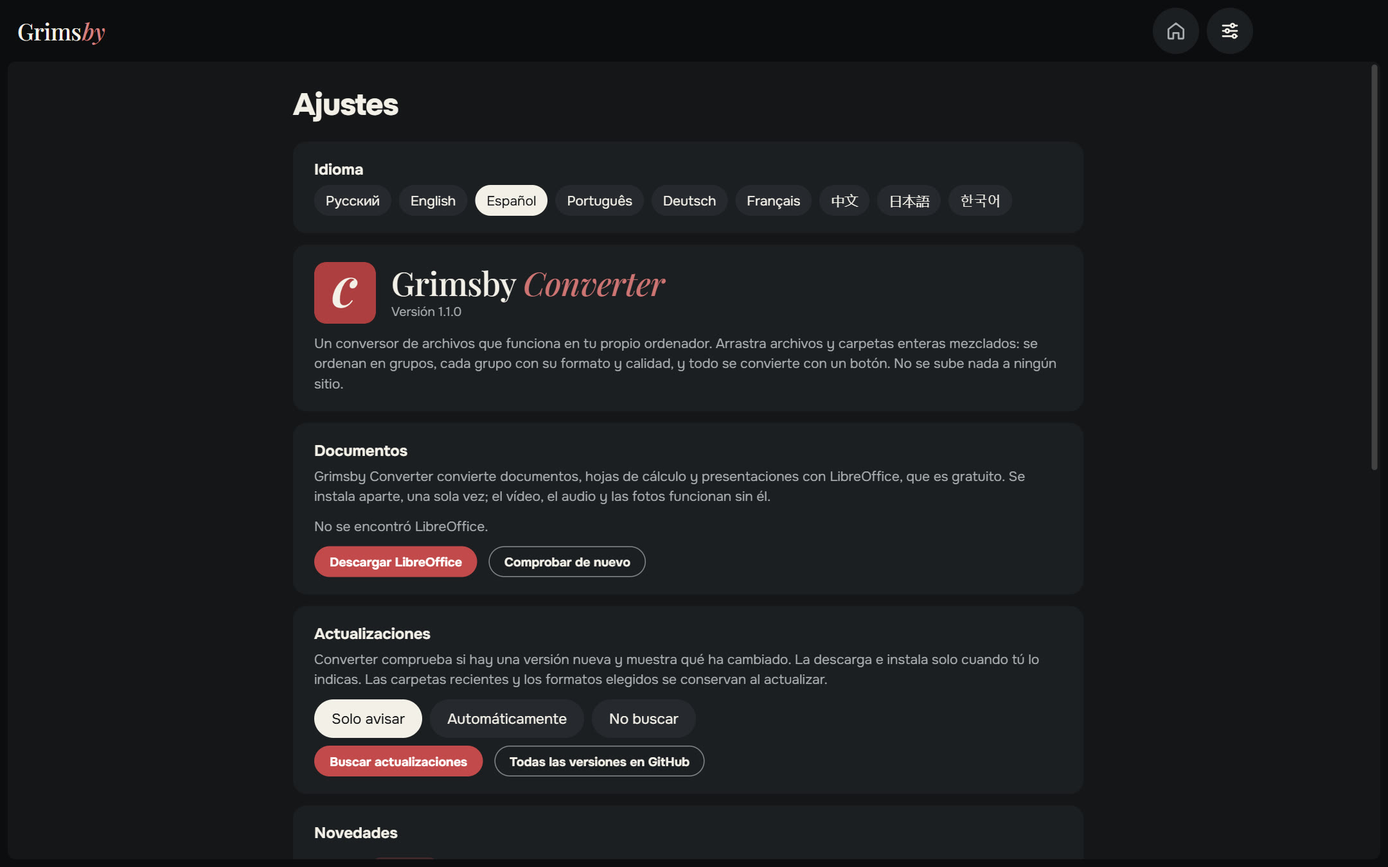
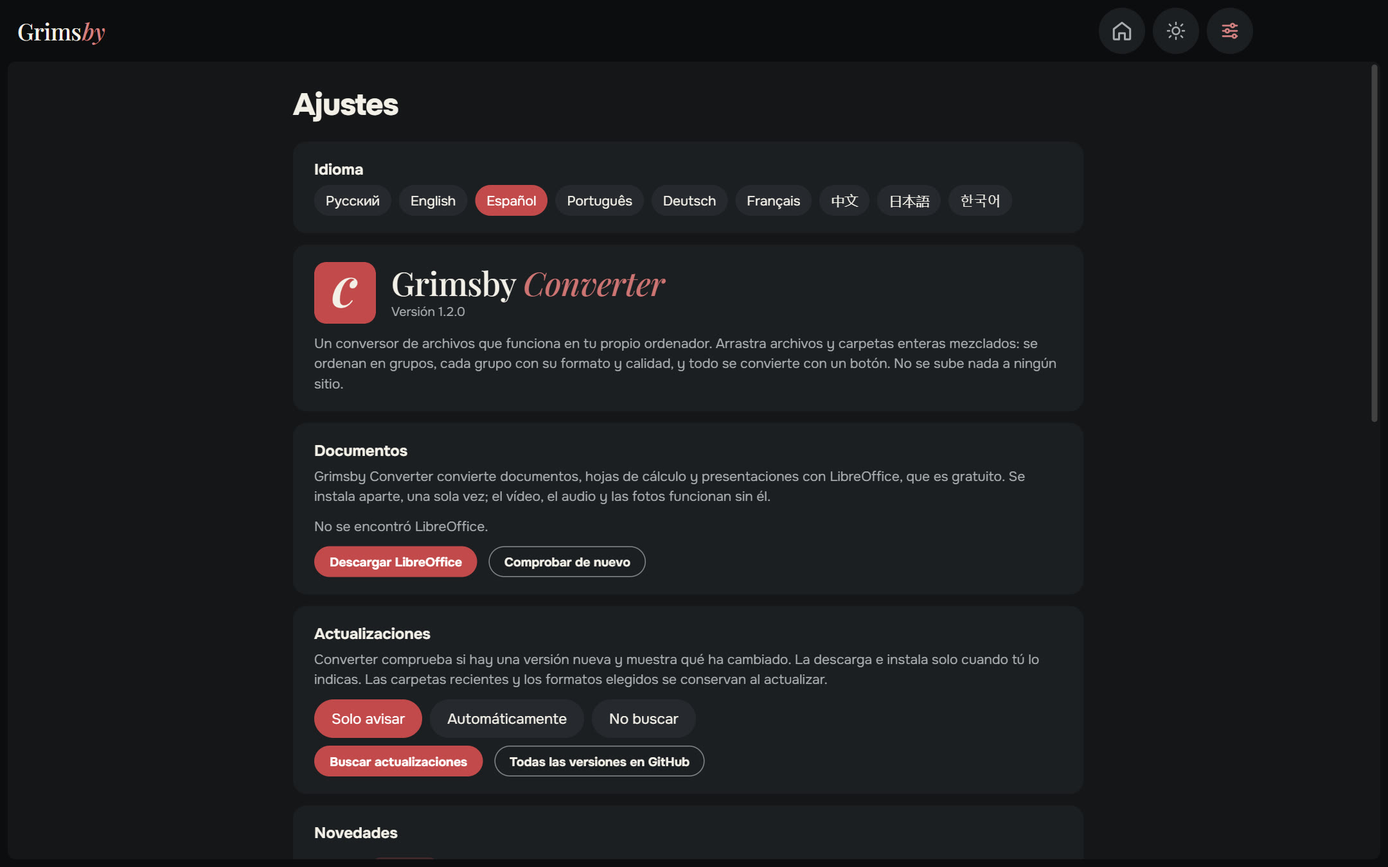
Converter 1.2.0: README and screenshots

diff --git a/README.ru.md b/README.ru.md
@@ -23,7 +23,7 @@
   <a href="https://github.com/maksimkhatskevich/grimsby-converter/releases/latest"><img src="https://img.shields.io/github/v/release/maksimkhatskevich/grimsby-converter?label=%D0%B2%D0%B5%D1%80%D1%81%D0%B8%D1%8F&color=C24A4A" alt="Version"></a>
   <img src="https://img.shields.io/badge/Windows-10%20%7C%2011-C24A4A" alt="Windows 10/11">
   <img src="https://img.shields.io/badge/%D0%B1%D0%B5%D1%81%D0%BF%D0%BB%D0%B0%D1%82%D0%BD%D0%BE-%D0%B1%D0%B5%D0%B7%20%D1%80%D0%B5%D0%BA%D0%BB%D0%B0%D0%BC%D1%8B-111314" alt="Free">
-  <a href="https://www.virustotal.com/gui/file/caeade773641b7b2a15fcc427afa02305a45262004d60aade01427700477fd3b"><img src="https://img.shields.io/badge/VirusTotal-0%2F67-2E7D32" alt="VirusTotal 0/67"></a>
+  <a href="https://www.virustotal.com/gui/file/c7b408d3046f7d0191755085186d9cc0c11226ff40cbc94fcf75808a2c1c976c"><img src="https://img.shields.io/badge/VirusTotal-1%2F60-858A8D" alt="VirusTotal 1/60"></a>
   <a href="https://github.com/maksimkhatskevich/grimsby-converter/releases"><img src="https://img.shields.io/github/downloads/maksimkhatskevich/grimsby-converter/total?label=%D1%81%D0%BA%D0%B0%D1%87%D0%B8%D0%B2%D0%B0%D0%BD%D0%B8%D0%B9&color=858A8D" alt="Downloads"></a>
 </p>
 
@@ -75,6 +75,12 @@
 - **Фото:** HEIC с айфона, PSD из Photoshop, EXR, HDR, AVIF, SVG — всё открывается и сохраняется в привычные форматы, даже в PDF.
 - **Документы, таблицы, презентации** → PDF, DOCX, XLSX, EPUB и другие; открываются и файлы Pages, Numbers и Keynote.
 
+### 🔍 Улучшение фото ×2, ×4, ×6
+
+Фото можно увеличить в 2, 4 или 6 раз с восстановлением деталей — прямо на компьютере, без интернета. Есть режимы для фото и для рисунков. Нужна видеокарта с Vulkan; если её нет или она не справилась, фото увеличится обычным способом, а рядом с файлом появится пометка. Готовый файл получает в имени приставку, например «снимок x4».
+
+![Улучшение фото ×4](screenshots/ru/upscale.jpg)
+
 ### ⚡ Быстро и безопасно
 
 - Несколько файлов конвертируются одновременно — столько, сколько потянет процессор.
@@ -90,11 +96,15 @@
 
 🌍 **9 языков:** русский, английский, испанский, португальский, немецкий, французский, китайский, японский и корейский — переключаются в настройках сразу.
 
+Светлая тема — в один клик, кнопка с солнцем вверху.
+
+![Светлая тема](screenshots/ru/queue-light.jpg)
+
 ![Настройки](screenshots/ru/settings.jpg)
 
 ### 🧩 Программы Grimsby внутри
 
-Grimsby Player и Grimsby Tagger с описанием и скриншотами — скачать и установить можно прямо из программы.
+Grimsby Player, Grimsby Tagger, Grimsby Prompter и Grimsby Helper с описанием и скриншотами — скачать и установить можно прямо из программы.
 
 ![Программы Grimsby и обратная связь](screenshots/ru/apps.jpg)
 
@@ -121,7 +131,6 @@ Grimsby Player и Grimsby Tagger с описанием и скриншотами
 
 1. Откройте страницу **[последней версии](https://github.com/maksimkhatskevich/grimsby-converter/releases/latest)** и скачайте установщик `.exe`.
 2. Запустите его. Windows может показать синее окно «Система Windows защитила ваш компьютер» — это обычное предупреждение для программ без платного сертификата подписи. Нажмите **Подробнее → Выполнить в любом случае**.
-   Установщик проверен на VirusTotal: [ни один из 67 антивирусов ничего не нашёл](https://www.virustotal.com/gui/file/caeade773641b7b2a15fcc427afa02305a45262004d60aade01427700477fd3b) (версия 1.1.0).
 3. Перетащите файлы в окно. Готово.
 
 **Требования:** Windows 10 или 11 (64 бит).
@@ -138,9 +147,11 @@ Grimsby Converter работает **полностью на вашем комп
 
 <table>
   <tr>
-    <td align="center" width="33%"><a href="https://github.com/maksimkhatskevich/grimsby-releases/blob/main/README.ru.md"><img src="screenshots/family/player.png" width="56" alt=""><br><b>Grimsby Player</b></a><br><sub>Офлайн-плеер для скачанной музыки и клипов</sub></td>
-    <td align="center" width="33%"><img src="screenshots/family/converter.png" width="56" alt=""><br><b>Grimsby Converter</b><br><img src="screenshots/family/here-ru.svg" alt="Вы здесь"></td>
-    <td align="center" width="33%"><a href="https://github.com/maksimkhatskevich/grimsby-tagger/blob/main/README.ru.md"><img src="screenshots/family/tagger.png" width="56" alt=""><br><b>Grimsby Tagger</b></a><br><sub>Пакетный редактор тегов: альбомы, обложки, имена файлов</sub></td>
+    <td align="center" width="20%"><a href="https://github.com/maksimkhatskevich/grimsby-releases/blob/main/README.ru.md"><img src="screenshots/family/player.png" width="56" alt=""><br><b>Grimsby Player</b></a><br><sub>Офлайн-плеер для скачанной музыки и клипов</sub></td>
+    <td align="center" width="20%"><img src="screenshots/family/converter.png" width="56" alt=""><br><b>Grimsby Converter</b><br><img src="screenshots/family/here-ru.svg" alt=""></td>
+    <td align="center" width="20%"><a href="https://github.com/maksimkhatskevich/grimsby-tagger/blob/main/README.ru.md"><img src="screenshots/family/tagger.png" width="56" alt=""><br><b>Grimsby Tagger</b></a><br><sub>Пакетный редактор тегов: альбомы, обложки, имена файлов</sub></td>
+    <td align="center" width="20%"><a href="https://github.com/maksimkhatskevich/grimsby-prompter/blob/main/README.ru.md"><img src="screenshots/family/prompter.png" width="56" alt=""><br><b>Grimsby Prompter</b></a><br><sub>Простой телесуфлёр, который следует за голосом</sub></td>
+    <td align="center" width="20%"><a href="https://github.com/maksimkhatskevich/grimsby-helper/blob/main/README.ru.md"><img src="screenshots/family/helper.png" width="56" alt=""><br><b>Grimsby Helper</b></a><br><sub>Состояние ПК с первого взгляда: процессы, температуры, чистка</sub></td>
   </tr>
 </table>
 

diff --git a/README.fr.md b/README.fr.md
@@ -23,7 +23,7 @@
   <a href="https://github.com/maksimkhatskevich/grimsby-converter/releases/latest"><img src="https://img.shields.io/github/v/release/maksimkhatskevich/grimsby-converter?label=version&color=C24A4A" alt="Version"></a>
   <img src="https://img.shields.io/badge/Windows-10%20%7C%2011-C24A4A" alt="Windows 10/11">
   <img src="https://img.shields.io/badge/gratuit-sans%20pub-111314" alt="Free">
-  <a href="https://www.virustotal.com/gui/file/caeade773641b7b2a15fcc427afa02305a45262004d60aade01427700477fd3b"><img src="https://img.shields.io/badge/VirusTotal-0%2F67-2E7D32" alt="VirusTotal 0/67"></a>
+  <a href="https://www.virustotal.com/gui/file/c7b408d3046f7d0191755085186d9cc0c11226ff40cbc94fcf75808a2c1c976c"><img src="https://img.shields.io/badge/VirusTotal-1%2F60-858A8D" alt="VirusTotal 1/60"></a>
   <a href="https://github.com/maksimkhatskevich/grimsby-converter/releases"><img src="https://img.shields.io/github/downloads/maksimkhatskevich/grimsby-converter/total?label=t%C3%A9l%C3%A9chargements&color=858A8D" alt="Downloads"></a>
 </p>
 
@@ -75,6 +75,12 @@ Choisissez le format et la qualité par groupe : par exemple, la vidéo en MP4, 
 - **Photos :** HEIC de l’iPhone, PSD de Photoshop, EXR, HDR, AVIF, SVG — tout s’ouvre et s’enregistre dans les formats courants, même en PDF.
 - **Documents, tableurs, présentations** → PDF, DOCX, XLSX, EPUB et plus ; les fichiers Pages, Numbers et Keynote s’ouvrent aussi.
 
+### 🔍 Amélioration des photos ×2, ×4, ×6
+
+Agrandissez les photos 2, 4 ou 6 fois en restaurant les détails — directement sur votre ordinateur, sans internet. Il y a des modes pour les photos et pour les dessins. Il faut une carte graphique compatible Vulkan ; sans elle, ou si elle n’y arrive pas, la photo est agrandie de façon classique et une mention apparaît à côté du fichier. Le nouveau fichier reçoit un préfixe dans son nom, comme « photo x4 ».
+
+![Amélioration des photos ×4](screenshots/fr/upscale.jpg)
+
 ### ⚡ Rapide et sûr
 
 - Plusieurs fichiers à la fois — autant que votre processeur le permet.
@@ -90,11 +96,15 @@ Langue, documents, mises à jour (prévenir seulement, automatiquement ou ne pas
 
 🌍 **9 langues :** anglais, russe, espagnol, portugais, allemand, français, chinois, japonais et coréen — à changer dans les Réglages, effet immédiat.
 
+Le thème clair est à un clic — le bouton soleil en haut.
+
+![Thème clair](screenshots/fr/queue-light.jpg)
+
 ![Réglages](screenshots/fr/settings.jpg)
 
 ### 🧩 Les applis Grimsby intégrées
 
-Grimsby Player et Grimsby Tagger avec description et captures — à télécharger et installer directement depuis l’appli.
+Grimsby Player, Grimsby Tagger, Grimsby Prompter et Grimsby Helper avec description et captures — à télécharger et installer directement depuis l’appli.
 
 ![Les applis Grimsby et contact](screenshots/fr/apps.jpg)
 
@@ -121,7 +131,6 @@ Grimsby Player et Grimsby Tagger avec description et captures — à télécharg
 
 1. Ouvrez la page de la **[dernière version](https://github.com/maksimkhatskevich/grimsby-converter/releases/latest)** et téléchargez l’installeur `.exe`.
 2. Lancez-le. Windows peut afficher une fenêtre bleue « Windows a protégé votre ordinateur » : c’est un avertissement normal pour les logiciels sans certificat de signature payant. Cliquez sur **Informations complémentaires → Exécuter quand même**.
-   L’installeur a été vérifié sur VirusTotal : [aucun des 67 antivirus ne détecte quoi que ce soit](https://www.virustotal.com/gui/file/caeade773641b7b2a15fcc427afa02305a45262004d60aade01427700477fd3b) (version 1.1.0).
 3. Déposez vos fichiers dans la fenêtre. C’est tout.
 
 **Configuration requise :** Windows 10 ou 11 (64 bits).
@@ -138,9 +147,11 @@ Grimsby Converter fonctionne **entièrement sur votre ordinateur**. Les fichiers
 
 <table>
   <tr>
-    <td align="center" width="33%"><a href="https://github.com/maksimkhatskevich/grimsby-releases/blob/main/README.fr.md"><img src="screenshots/family/player.png" width="56" alt=""><br><b>Grimsby Player</b></a><br><sub>Lecteur hors ligne pour votre musique et vos clips téléchargés</sub></td>
-    <td align="center" width="33%"><img src="screenshots/family/converter.png" width="56" alt=""><br><b>Grimsby Converter</b><br><img src="screenshots/family/here-fr.svg" alt="Vous êtes ici"></td>
-    <td align="center" width="33%"><a href="https://github.com/maksimkhatskevich/grimsby-tagger/blob/main/README.fr.md"><img src="screenshots/family/tagger.png" width="56" alt=""><br><b>Grimsby Tagger</b></a><br><sub>Éditeur de tags par lots : albums, pochettes, noms de fichiers</sub></td>
+    <td align="center" width="20%"><a href="https://github.com/maksimkhatskevich/grimsby-releases/blob/main/README.fr.md"><img src="screenshots/family/player.png" width="56" alt=""><br><b>Grimsby Player</b></a><br><sub>Lecteur hors ligne pour votre musique et vos clips téléchargés</sub></td>
+    <td align="center" width="20%"><img src="screenshots/family/converter.png" width="56" alt=""><br><b>Grimsby Converter</b><br><img src="screenshots/family/here-fr.svg" alt=""></td>
+    <td align="center" width="20%"><a href="https://github.com/maksimkhatskevich/grimsby-tagger/blob/main/README.fr.md"><img src="screenshots/family/tagger.png" width="56" alt=""><br><b>Grimsby Tagger</b></a><br><sub>Éditeur de tags par lots : albums, pochettes, noms de fichiers</sub></td>
+    <td align="center" width="20%"><a href="https://github.com/maksimkhatskevich/grimsby-prompter/blob/main/README.fr.md"><img src="screenshots/family/prompter.png" width="56" alt=""><br><b>Grimsby Prompter</b></a><br><sub>Un téléprompteur simple qui suit votre voix</sub></td>
+    <td align="center" width="20%"><a href="https://github.com/maksimkhatskevich/grimsby-helper/blob/main/README.fr.md"><img src="screenshots/family/helper.png" width="56" alt=""><br><b>Grimsby Helper</b></a><br><sub>L’état de votre PC en un coup d’œil : processus, températures, nettoyage</sub></td>
   </tr>
 </table>
 

diff --git a/README.de.md b/README.de.md
@@ -23,7 +23,7 @@
   <a href="https://github.com/maksimkhatskevich/grimsby-converter/releases/latest"><img src="https://img.shields.io/github/v/release/maksimkhatskevich/grimsby-converter?label=Version&color=C24A4A" alt="Version"></a>
   <img src="https://img.shields.io/badge/Windows-10%20%7C%2011-C24A4A" alt="Windows 10/11">
   <img src="https://img.shields.io/badge/kostenlos-ohne%20Werbung-111314" alt="Free">
-  <a href="https://www.virustotal.com/gui/file/caeade773641b7b2a15fcc427afa02305a45262004d60aade01427700477fd3b"><img src="https://img.shields.io/badge/VirusTotal-0%2F67-2E7D32" alt="VirusTotal 0/67"></a>
+  <a href="https://www.virustotal.com/gui/file/c7b408d3046f7d0191755085186d9cc0c11226ff40cbc94fcf75808a2c1c976c"><img src="https://img.shields.io/badge/VirusTotal-1%2F60-858A8D" alt="VirusTotal 1/60"></a>
   <a href="https://github.com/maksimkhatskevich/grimsby-converter/releases"><img src="https://img.shields.io/github/downloads/maksimkhatskevich/grimsby-converter/total?label=Downloads&color=858A8D" alt="Downloads"></a>
 </p>
 
@@ -75,6 +75,12 @@ Wähle Zielformat und Qualität pro Gruppe: etwa Videos als MP4, Musik als MP3 3
 - **Fotos:** HEIC vom iPhone, Photoshop-PSD, EXR, HDR, AVIF, SVG – alles öffnet sich und wird in gängigen Formaten gespeichert, sogar als PDF.
 - **Dokumente, Tabellen, Präsentationen** → PDF, DOCX, XLSX, EPUB und mehr; auch Pages-, Numbers- und Keynote-Dateien öffnen sich.
 
+### 🔍 Fotos verbessern ×2, ×4, ×6
+
+Fotos lassen sich 2-, 4- oder 6-fach vergrößern und Details werden wiederhergestellt – direkt auf deinem Computer, ohne Internet. Es gibt Modi für Fotos und für Zeichnungen. Dafür braucht es eine Grafikkarte mit Vulkan; fehlt sie oder schafft sie es nicht, wird das Foto normal vergrößert und neben der Datei vermerkt. Die neue Datei bekommt einen Zusatz im Namen, etwa „Foto x4“.
+
+![Foto verbessern ×4](screenshots/de/upscale.jpg)
+
 ### ⚡ Schnell und sicher
 
 - Mehrere Dateien gleichzeitig – so viele, wie dein Prozessor schafft.
@@ -90,11 +96,15 @@ Sprache, Dokumente, Updates (nur melden, automatisch oder nicht prüfen), Neuigk
 
 🌍 **9 Sprachen:** Englisch, Russisch, Spanisch, Portugiesisch, Deutsch, Französisch, Chinesisch, Japanisch und Koreanisch – umschalten in den Einstellungen, sofort wirksam.
 
+Das helle Design ist einen Klick entfernt – der Sonnenknopf oben.
+
+![Helles Design](screenshots/de/queue-light.jpg)
+
 ![Einstellungen](screenshots/de/settings.jpg)
 
 ### 🧩 Grimsby-Apps eingebaut
 
-Grimsby Player und Grimsby Tagger mit Beschreibung und Screenshots – direkt aus der App herunterladen und installieren.
+Grimsby Player, Grimsby Tagger, Grimsby Prompter und Grimsby Helper mit Beschreibung und Screenshots – direkt aus der App herunterladen und installieren.
 
 ![Grimsby-Apps und Feedback](screenshots/de/apps.jpg)
 
@@ -121,7 +131,6 @@ Grimsby Player und Grimsby Tagger mit Beschreibung und Screenshots – direkt au
 
 1. Öffne die Seite der **[neuesten Version](https://github.com/maksimkhatskevich/grimsby-converter/releases/latest)** und lade das Installationsprogramm `.exe` herunter.
 2. Starte es. Windows zeigt eventuell ein blaues Fenster „Der Computer wurde durch Windows geschützt“ – eine normale Warnung für Programme ohne kostenpflichtiges Signaturzertifikat. Klicke auf **Weitere Informationen → Trotzdem ausführen**.
-   Das Installationsprogramm wurde bei VirusTotal geprüft: [keiner der 67 Virenscanner schlägt an](https://www.virustotal.com/gui/file/caeade773641b7b2a15fcc427afa02305a45262004d60aade01427700477fd3b) (Version 1.1.0).
 3. Zieh deine Dateien ins Fenster. Fertig.
 
 **Voraussetzungen:** Windows 10 oder 11 (64 Bit).
@@ -138,9 +147,11 @@ Grimsby Converter arbeitet **komplett auf deinem Computer**. Dateien werden nirg
 
 <table>
   <tr>
-    <td align="center" width="33%"><a href="https://github.com/maksimkhatskevich/grimsby-releases/blob/main/README.de.md"><img src="screenshots/family/player.png" width="56" alt=""><br><b>Grimsby Player</b></a><br><sub>Offline-Player für deine heruntergeladene Musik und Videos</sub></td>
-    <td align="center" width="33%"><img src="screenshots/family/converter.png" width="56" alt=""><br><b>Grimsby Converter</b><br><img src="screenshots/family/here-de.svg" alt="Du bist hier"></td>
-    <td align="center" width="33%"><a href="https://github.com/maksimkhatskevich/grimsby-tagger/blob/main/README.de.md"><img src="screenshots/family/tagger.png" width="56" alt=""><br><b>Grimsby Tagger</b></a><br><sub>Tag-Editor für ganze Alben: Tags, Cover, Dateinamen</sub></td>
+    <td align="center" width="20%"><a href="https://github.com/maksimkhatskevich/grimsby-releases/blob/main/README.de.md"><img src="screenshots/family/player.png" width="56" alt=""><br><b>Grimsby Player</b></a><br><sub>Offline-Player für deine heruntergeladene Musik und Videos</sub></td>
+    <td align="center" width="20%"><img src="screenshots/family/converter.png" width="56" alt=""><br><b>Grimsby Converter</b><br><img src="screenshots/family/here-de.svg" alt=""></td>
+    <td align="center" width="20%"><a href="https://github.com/maksimkhatskevich/grimsby-tagger/blob/main/README.de.md"><img src="screenshots/family/tagger.png" width="56" alt=""><br><b>Grimsby Tagger</b></a><br><sub>Tag-Editor für ganze Alben: Tags, Cover, Dateinamen</sub></td>
+    <td align="center" width="20%"><a href="https://github.com/maksimkhatskevich/grimsby-prompter/blob/main/README.de.md"><img src="screenshots/family/prompter.png" width="56" alt=""><br><b>Grimsby Prompter</b></a><br><sub>Ein einfacher Teleprompter, der deiner Stimme folgt</sub></td>
+    <td align="center" width="20%"><a href="https://github.com/maksimkhatskevich/grimsby-helper/blob/main/README.de.md"><img src="screenshots/family/helper.png" width="56" alt=""><br><b>Grimsby Helper</b></a><br><sub>PC-Zustand auf einen Blick: Prozesse, Temperaturen, Bereinigung</sub></td>
   </tr>
 </table>
 

diff --git a/README.es.md b/README.es.md
@@ -23,7 +23,7 @@
   <a href="https://github.com/maksimkhatskevich/grimsby-converter/releases/latest"><img src="https://img.shields.io/github/v/release/maksimkhatskevich/grimsby-converter?label=versi%C3%B3n&color=C24A4A" alt="Version"></a>
   <img src="https://img.shields.io/badge/Windows-10%20%7C%2011-C24A4A" alt="Windows 10/11">
   <img src="https://img.shields.io/badge/gratis-sin%20anuncios-111314" alt="Free">
-  <a href="https://www.virustotal.com/gui/file/caeade773641b7b2a15fcc427afa02305a45262004d60aade01427700477fd3b"><img src="https://img.shields.io/badge/VirusTotal-0%2F67-2E7D32" alt="VirusTotal 0/67"></a>
+  <a href="https://www.virustotal.com/gui/file/c7b408d3046f7d0191755085186d9cc0c11226ff40cbc94fcf75808a2c1c976c"><img src="https://img.shields.io/badge/VirusTotal-1%2F60-858A8D" alt="VirusTotal 1/60"></a>
   <a href="https://github.com/maksimkhatskevich/grimsby-converter/releases"><img src="https://img.shields.io/github/downloads/maksimkhatskevich/grimsby-converter/total?label=descargas&color=858A8D" alt="Downloads"></a>
 </p>
 
@@ -75,6 +75,12 @@ Elige el formato y la calidad para cada grupo: por ejemplo, video a MP4, música
 - **Fotos:** HEIC del iPhone, PSD de Photoshop, EXR, HDR, AVIF, SVG: todo se abre y se guarda en formatos habituales, incluso en PDF.
 - **Documentos, hojas de cálculo, presentaciones** → PDF, DOCX, XLSX, EPUB y más; también abre archivos de Pages, Numbers y Keynote.
 
+### 🔍 Mejora de fotos ×2, ×4, ×6
+
+Amplía las fotos 2, 4 o 6 veces recuperando detalle, en tu propio ordenador y sin internet. Hay modos para fotos y para dibujos. Hace falta una tarjeta gráfica con Vulkan; si no la hay o no puede, la foto se amplía de la forma habitual y queda una nota junto al archivo. El archivo nuevo lleva un prefijo en el nombre, como «foto x4».
+
+![Mejora de fotos ×4](screenshots/es/upscale.jpg)
+
 ### ⚡ Rápido y seguro
 
 - Varios archivos a la vez, tantos como aguante tu procesador.
@@ -90,11 +96,15 @@ Idioma, documentos, actualizaciones (solo avisar, automáticas o no comprobar), 
 
 🌍 **9 idiomas:** inglés, ruso, español, portugués, alemán, francés, chino, japonés y coreano; se cambian en Ajustes al instante.
 
+El tema claro está a un clic: el botón del sol, arriba.
+
+![Tema claro](screenshots/es/queue-light.jpg)
+
 ![Ajustes](screenshots/es/settings.jpg)
 
 ### 🧩 Las apps de Grimsby dentro
 
-Grimsby Player y Grimsby Tagger con descripción y capturas: descárgalos e instálalos desde la propia app.
+Grimsby Player, Grimsby Tagger, Grimsby Prompter y Grimsby Helper con descripción y capturas: descárgalos e instálalos desde la propia app.
 
 ![Las apps de Grimsby y contacto](screenshots/es/apps.jpg)
 
@@ -121,7 +131,6 @@ Grimsby Player y Grimsby Tagger con descripción y capturas: descárgalos e inst
 
 1. Abre la página de la **[última versión](https://github.com/maksimkhatskevich/grimsby-converter/releases/latest)** y descarga el instalador `.exe`.
 2. Ejecútalo. Windows puede mostrar una ventana azul «Windows protegió su PC»: es un aviso normal para programas sin certificado de firma de pago. Pulsa **Más información → Ejecutar de todas formas**.
-   El instalador se ha analizado en VirusTotal: [ninguno de 67 antivirus detecta nada](https://www.virustotal.com/gui/file/caeade773641b7b2a15fcc427afa02305a45262004d60aade01427700477fd3b) (versión 1.1.0).
 3. Arrastra tus archivos a la ventana. Listo.
 
 **Requisitos:** Windows 10 u 11 (64 bits).
@@ -138,9 +147,11 @@ Grimsby Converter funciona **por completo en tu ordenador**. Los archivos no se 
 
 <table>
   <tr>
-    <td align="center" width="33%"><a href="https://github.com/maksimkhatskevich/grimsby-releases/blob/main/README.es.md"><img src="screenshots/family/player.png" width="56" alt=""><br><b>Grimsby Player</b></a><br><sub>Reproductor sin conexión para tu música y videos descargados</sub></td>
-    <td align="center" width="33%"><img src="screenshots/family/converter.png" width="56" alt=""><br><b>Grimsby Converter</b><br><img src="screenshots/family/here-es.svg" alt="Estás aquí"></td>
-    <td align="center" width="33%"><a href="https://github.com/maksimkhatskevich/grimsby-tagger/blob/main/README.es.md"><img src="screenshots/family/tagger.png" width="56" alt=""><br><b>Grimsby Tagger</b></a><br><sub>Editor de etiquetas por lotes: álbumes, portadas, nombres de archivo</sub></td>
+    <td align="center" width="20%"><a href="https://github.com/maksimkhatskevich/grimsby-releases/blob/main/README.es.md"><img src="screenshots/family/player.png" width="56" alt=""><br><b>Grimsby Player</b></a><br><sub>Reproductor sin conexión para tu música y videos descargados</sub></td>
+    <td align="center" width="20%"><img src="screenshots/family/converter.png" width="56" alt=""><br><b>Grimsby Converter</b><br><img src="screenshots/family/here-es.svg" alt=""></td>
+    <td align="center" width="20%"><a href="https://github.com/maksimkhatskevich/grimsby-tagger/blob/main/README.es.md"><img src="screenshots/family/tagger.png" width="56" alt=""><br><b>Grimsby Tagger</b></a><br><sub>Editor de etiquetas por lotes: álbumes, portadas, nombres de archivo</sub></td>
+    <td align="center" width="20%"><a href="https://github.com/maksimkhatskevich/grimsby-prompter/blob/main/README.es.md"><img src="screenshots/family/prompter.png" width="56" alt=""><br><b>Grimsby Prompter</b></a><br><sub>Un teleprompter sencillo que sigue tu voz</sub></td>
+    <td align="center" width="20%"><a href="https://github.com/maksimkhatskevich/grimsby-helper/blob/main/README.es.md"><img src="screenshots/family/helper.png" width="56" alt=""><br><b>Grimsby Helper</b></a><br><sub>El estado de tu PC de un vistazo: procesos, temperaturas, limpieza</sub></td>
   </tr>
 </table>
 

diff --git a/README.pt.md b/README.pt.md
@@ -23,7 +23,7 @@
   <a href="https://github.com/maksimkhatskevich/grimsby-converter/releases/latest"><img src="https://img.shields.io/github/v/release/maksimkhatskevich/grimsby-converter?label=vers%C3%A3o&color=C24A4A" alt="Version"></a>
   <img src="https://img.shields.io/badge/Windows-10%20%7C%2011-C24A4A" alt="Windows 10/11">
   <img src="https://img.shields.io/badge/gr%C3%A1tis-sem%20an%C3%BAncios-111314" alt="Free">
-  <a href="https://www.virustotal.com/gui/file/caeade773641b7b2a15fcc427afa02305a45262004d60aade01427700477fd3b"><img src="https://img.shields.io/badge/VirusTotal-0%2F67-2E7D32" alt="VirusTotal 0/67"></a>
+  <a href="https://www.virustotal.com/gui/file/c7b408d3046f7d0191755085186d9cc0c11226ff40cbc94fcf75808a2c1c976c"><img src="https://img.shields.io/badge/VirusTotal-1%2F60-858A8D" alt="VirusTotal 1/60"></a>
   <a href="https://github.com/maksimkhatskevich/grimsby-converter/releases"><img src="https://img.shields.io/github/downloads/maksimkhatskevich/grimsby-converter/total?label=downloads&color=858A8D" alt="Downloads"></a>
 </p>
 
@@ -75,6 +75,12 @@ Escolha o formato e a qualidade por grupo: por exemplo, vídeo para MP4, música
 - **Fotos:** HEIC do iPhone, PSD do Photoshop, EXR, HDR, AVIF, SVG — tudo abre e é salvo nos formatos de sempre, até em PDF.
 - **Documentos, planilhas, apresentações** → PDF, DOCX, XLSX, EPUB e outros; arquivos do Pages, Numbers e Keynote também abrem.
 
+### 🔍 Melhoria de fotos ×2, ×4, ×6
+
+Amplie fotos 2, 4 ou 6 vezes recuperando detalhes — no seu computador, sem internet. Há modos para fotos e para desenhos. É preciso uma placa de vídeo com Vulkan; sem ela, ou se ela não der conta, a foto é ampliada do jeito comum e aparece uma nota ao lado do arquivo. O novo arquivo ganha um prefixo no nome, como “foto x4”.
+
+![Melhoria de fotos ×4](screenshots/pt/upscale.jpg)
+
 ### ⚡ Rápido e seguro
 
 - Vários arquivos ao mesmo tempo — quantos o processador aguentar.
@@ -90,11 +96,15 @@ Idioma, documentos, atualizações (só avisar, automaticamente ou não verifica
 
 🌍 **9 idiomas:** inglês, russo, espanhol, português, alemão, francês, chinês, japonês e coreano — troque nas Configurações, muda na hora.
 
+O tema claro fica a um clique — o botão do sol, no alto.
+
+![Tema claro](screenshots/pt/queue-light.jpg)
+
 ![Configurações](screenshots/pt/settings.jpg)
 
 ### 🧩 Os apps Grimsby por dentro
 
-Grimsby Player e Grimsby Tagger com descrição e capturas de tela — baixe e instale direto do app.
+Grimsby Player, Grimsby Tagger, Grimsby Prompter e Grimsby Helper com descrição e capturas de tela — baixe e instale direto do app.
 
 ![Os apps Grimsby e contato](screenshots/pt/apps.jpg)
 
@@ -121,7 +131,6 @@ Grimsby Player e Grimsby Tagger com descrição e capturas de tela — baixe e i
 
 1. Abra a página da **[versão mais recente](https://github.com/maksimkhatskevich/grimsby-converter/releases/latest)** e baixe o instalador `.exe`.
 2. Execute-o. O Windows pode mostrar uma janela azul «O Windows protegeu o computador» — é um aviso normal para programas sem certificado de assinatura pago. Clique em **Mais informações → Executar assim mesmo**.
-   O instalador foi verificado no VirusTotal: [nenhum dos 67 antivírus encontrou nada](https://www.virustotal.com/gui/file/caeade773641b7b2a15fcc427afa02305a45262004d60aade01427700477fd3b) (versão 1.1.0).
 3. Arraste os arquivos para a janela. Pronto.
 
 **Requisitos:** Windows 10 ou 11 (64 bits).
@@ -138,9 +147,11 @@ O Grimsby Converter funciona **inteiramente no seu computador**. Os arquivos nã
 
 <table>
   <tr>
-    <td align="center" width="33%"><a href="https://github.com/maksimkhatskevich/grimsby-releases/blob/main/README.pt.md"><img src="screenshots/family/player.png" width="56" alt=""><br><b>Grimsby Player</b></a><br><sub>Player offline para suas músicas e clipes baixados</sub></td>
-    <td align="center" width="33%"><img src="screenshots/family/converter.png" width="56" alt=""><br><b>Grimsby Converter</b><br><img src="screenshots/family/here-pt.svg" alt="Você está aqui"></td>
-    <td align="center" width="33%"><a href="https://github.com/maksimkhatskevich/grimsby-tagger/blob/main/README.pt.md"><img src="screenshots/family/tagger.png" width="56" alt=""><br><b>Grimsby Tagger</b></a><br><sub>Editor de tags em lote: álbuns, capas, nomes de arquivos</sub></td>
+    <td align="center" width="20%"><a href="https://github.com/maksimkhatskevich/grimsby-releases/blob/main/README.pt.md"><img src="screenshots/family/player.png" width="56" alt=""><br><b>Grimsby Player</b></a><br><sub>Player offline para suas músicas e clipes baixados</sub></td>
+    <td align="center" width="20%"><img src="screenshots/family/converter.png" width="56" alt=""><br><b>Grimsby Converter</b><br><img src="screenshots/family/here-pt.svg" alt=""></td>
+    <td align="center" width="20%"><a href="https://github.com/maksimkhatskevich/grimsby-tagger/blob/main/README.pt.md"><img src="screenshots/family/tagger.png" width="56" alt=""><br><b>Grimsby Tagger</b></a><br><sub>Editor de tags em lote: álbuns, capas, nomes de arquivos</sub></td>
+    <td align="center" width="20%"><a href="https://github.com/maksimkhatskevich/grimsby-prompter/blob/main/README.pt.md"><img src="screenshots/family/prompter.png" width="56" alt=""><br><b>Grimsby Prompter</b></a><br><sub>Um teleprompter simples que acompanha sua voz</sub></td>
+    <td align="center" width="20%"><a href="https://github.com/maksimkhatskevich/grimsby-helper/blob/main/README.pt.md"><img src="screenshots/family/helper.png" width="56" alt=""><br><b>Grimsby Helper</b></a><br><sub>A saúde do PC de relance: processos, temperaturas, limpeza</sub></td>
   </tr>
 </table>
 

diff --git a/README.md b/README.md
@@ -23,7 +23,7 @@
   <a href="https://github.com/maksimkhatskevich/grimsby-converter/releases/latest"><img src="https://img.shields.io/github/v/release/maksimkhatskevich/grimsby-converter?label=version&color=C24A4A" alt="Version"></a>
   <img src="https://img.shields.io/badge/Windows-10%20%7C%2011-C24A4A" alt="Windows 10/11">
   <img src="https://img.shields.io/badge/free-no%20ads-111314" alt="Free">
-  <a href="https://www.virustotal.com/gui/file/caeade773641b7b2a15fcc427afa02305a45262004d60aade01427700477fd3b"><img src="https://img.shields.io/badge/VirusTotal-0%2F67-2E7D32" alt="VirusTotal 0/67"></a>
+  <a href="https://www.virustotal.com/gui/file/c7b408d3046f7d0191755085186d9cc0c11226ff40cbc94fcf75808a2c1c976c"><img src="https://img.shields.io/badge/VirusTotal-1%2F60-858A8D" alt="VirusTotal 1/60"></a>
   <a href="https://github.com/maksimkhatskevich/grimsby-converter/releases"><img src="https://img.shields.io/github/downloads/maksimkhatskevich/grimsby-converter/total?label=downloads&color=858A8D" alt="Downloads"></a>
 </p>
 
@@ -75,6 +75,12 @@ Pick the target format and quality per group: say, video to MP4, music to MP3 32
 - **Photos:** HEIC from iPhone, Photoshop PSD, EXR, HDR, AVIF, SVG — everything opens and saves in the usual formats, even to PDF.
 - **Documents, spreadsheets, presentations** → PDF, DOCX, XLSX, EPUB and more; Pages, Numbers and Keynote files open too.
 
+### 🔍 Photo enhancement ×2, ×4, ×6
+
+Make photos 2, 4 or 6 times larger while restoring detail — right on your computer, without internet. There are modes for photos and for drawings. This needs a graphics card with Vulkan; without one, or if it can’t cope, the photo is enlarged the usual way and marked next to the file. The new file gets a prefix in its name, like “photo x4”.
+
+![Photo enhancement ×4](screenshots/en/upscale.jpg)
+
 ### ⚡ Fast and safe
 
 - Several files are converted at the same time — as many as your processor can handle.
@@ -90,11 +96,15 @@ Language, documents, updates (notify only, automatically or don't check), what's
 
 🌍 **9 languages:** English, Russian, Spanish, Portuguese, German, French, Chinese, Japanese and Korean — switch in Settings, it changes right away.
 
+The light theme is one click away — the sun button at the top.
+
+![Light theme](screenshots/en/queue-light.jpg)
+
 ![Settings](screenshots/en/settings.jpg)
 
 ### 🧩 Grimsby apps inside
 
-Grimsby Player and Grimsby Tagger with descriptions and screenshots — download and install them right from the app.
+Grimsby Player, Grimsby Tagger, Grimsby Prompter and Grimsby Helper with descriptions and screenshots — download and install them right from the app.
 
 ![Grimsby apps and feedback](screenshots/en/apps.jpg)
 
@@ -121,7 +131,6 @@ Grimsby Player and Grimsby Tagger with descriptions and screenshots — download
 
 1. Open the **[latest release](https://github.com/maksimkhatskevich/grimsby-converter/releases/latest)** page and download the installer `.exe`.
 2. Run it. Windows may show a blue "Windows protected your PC" window — that's a normal warning for apps without a paid code-signing certificate. Click **More info → Run anyway**.
-   The installer has been checked on VirusTotal: [0 of 67 antivirus engines flag it](https://www.virustotal.com/gui/file/caeade773641b7b2a15fcc427afa02305a45262004d60aade01427700477fd3b) (version 1.1.0).
 3. Drop your files into the window. That's it.
 
 **Requirements:** Windows 10 or 11 (64-bit).
@@ -138,9 +147,11 @@ Grimsby Converter works **entirely on your computer**. Files are never uploaded 
 
 <table>
   <tr>
-    <td align="center" width="33%"><a href="https://github.com/maksimkhatskevich/grimsby-releases"><img src="screenshots/family/player.png" width="56" alt=""><br><b>Grimsby Player</b></a><br><sub>Offline music & video player for your downloaded collection</sub></td>
-    <td align="center" width="33%"><img src="screenshots/family/converter.png" width="56" alt=""><br><b>Grimsby Converter</b><br><img src="screenshots/family/here-en.svg" alt="You are here"></td>
-    <td align="center" width="33%"><a href="https://github.com/maksimkhatskevich/grimsby-tagger"><img src="screenshots/family/tagger.png" width="56" alt=""><br><b>Grimsby Tagger</b></a><br><sub>Batch tag editor: albums, covers, file names</sub></td>
+    <td align="center" width="20%"><a href="https://github.com/maksimkhatskevich/grimsby-releases"><img src="screenshots/family/player.png" width="56" alt=""><br><b>Grimsby Player</b></a><br><sub>Offline music & video player for your downloaded collection</sub></td>
+    <td align="center" width="20%"><img src="screenshots/family/converter.png" width="56" alt=""><br><b>Grimsby Converter</b><br><img src="screenshots/family/here-en.svg" alt=""></td>
+    <td align="center" width="20%"><a href="https://github.com/maksimkhatskevich/grimsby-tagger"><img src="screenshots/family/tagger.png" width="56" alt=""><br><b>Grimsby Tagger</b></a><br><sub>Batch tag editor: albums, covers, file names</sub></td>
+    <td align="center" width="20%"><a href="https://github.com/maksimkhatskevich/grimsby-prompter"><img src="screenshots/family/prompter.png" width="56" alt=""><br><b>Grimsby Prompter</b></a><br><sub>A simple teleprompter that follows your voice</sub></td>
+    <td align="center" width="20%"><a href="https://github.com/maksimkhatskevich/grimsby-helper"><img src="screenshots/family/helper.png" width="56" alt=""><br><b>Grimsby Helper</b></a><br><sub>PC health at a glance: processes, temperatures, cleanup</sub></td>
   </tr>
 </table>
 
